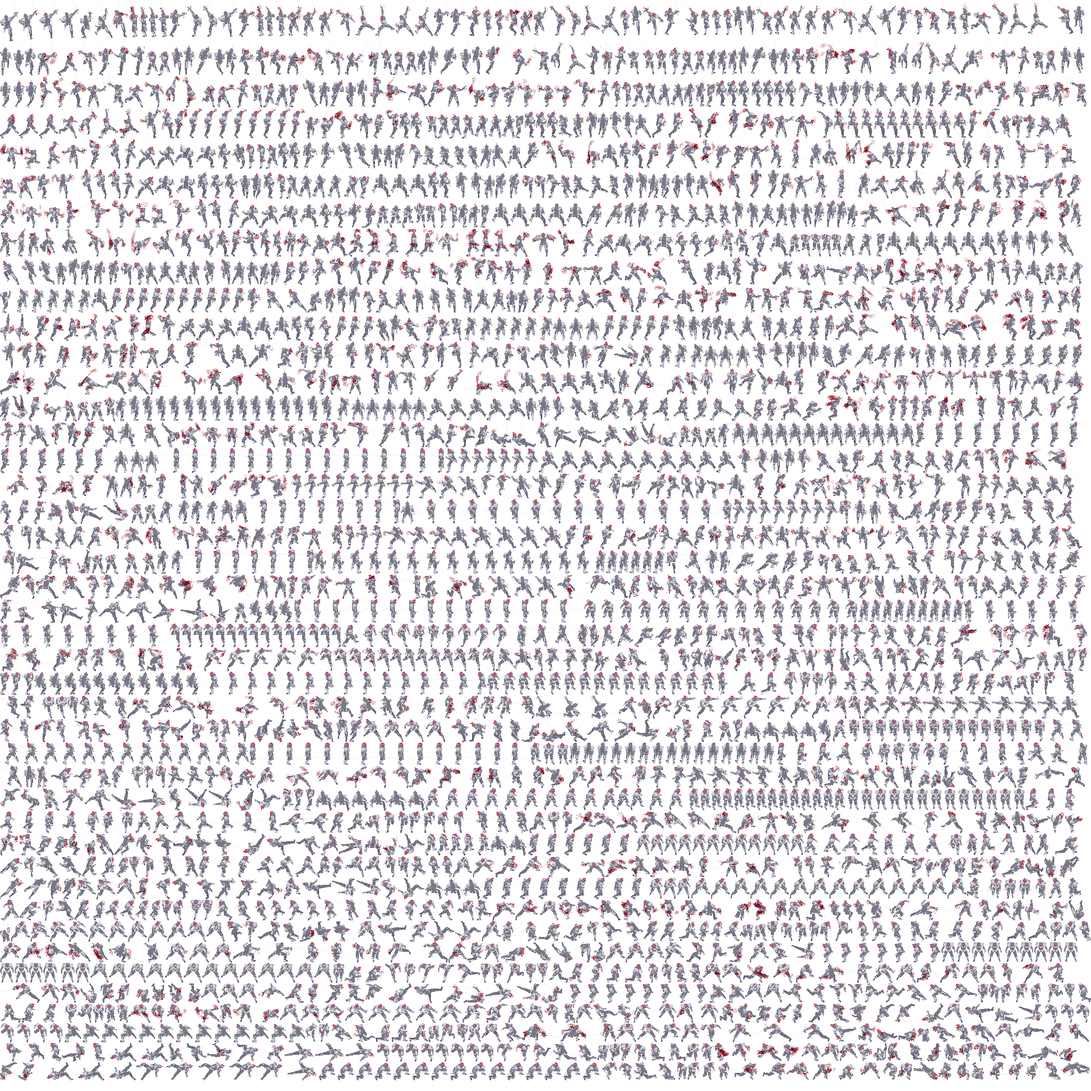
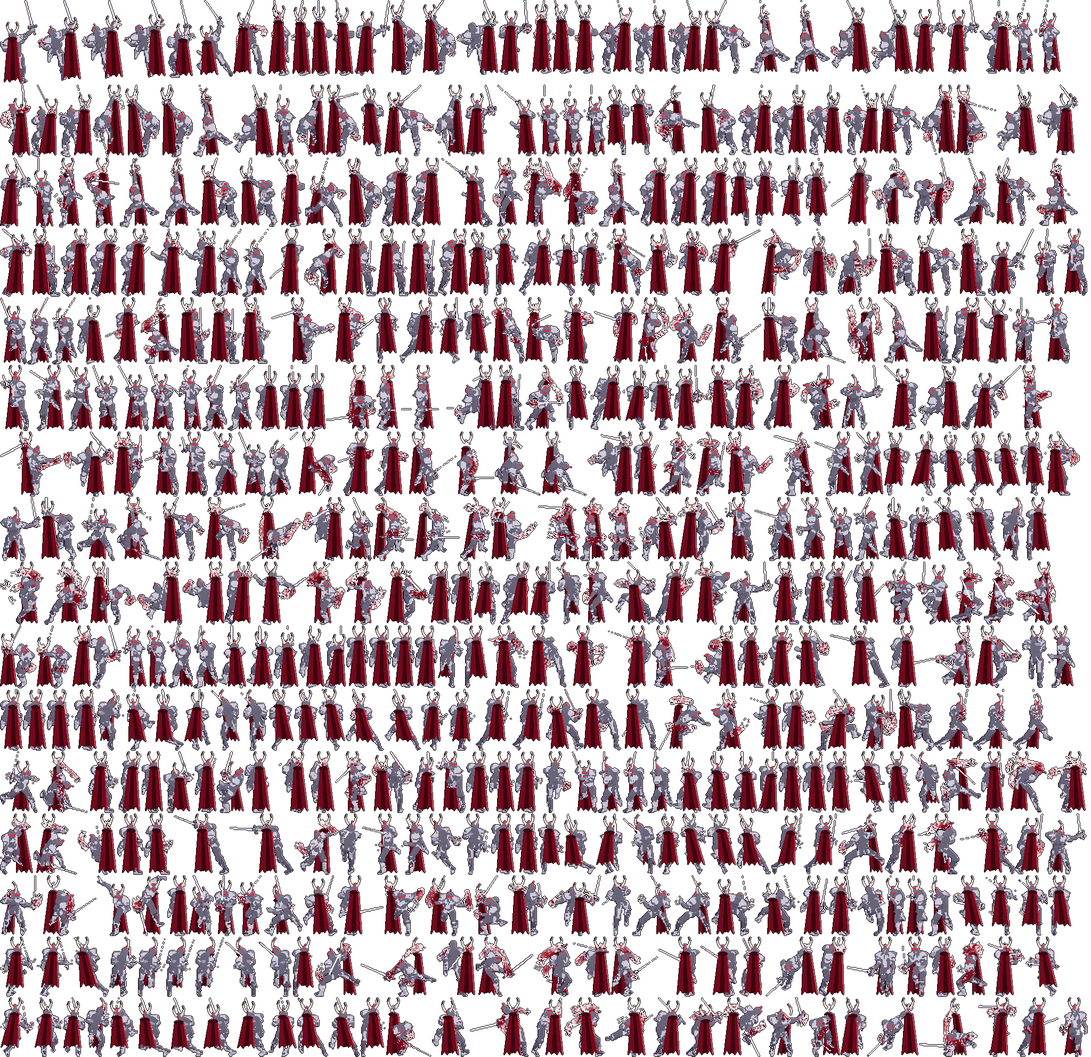
Vesper: the First Cut gets his own boss sheet: 2x, caped, horned
Built from the knight's real animations (every clip and direction): recoloured,
redrawn at double resolution with Scale2x, with a swaying tattered crimson cape,
horns from his crown, an outline, moonlit rim and crimson seams. The engine draws
res-2 sheets at half scale. He fights at 1.8x a man's size.

Claude-Session: https://claude.ai/code/session_01U68ANvC5EPq8neAmbwhWjn

diff --git a/vesper/js/assets.js b/vesper/js/assets.js
@@ -97,7 +97,7 @@
   // Draw an actor with its feet at (x, y). opts: flash (0..1 white), shade (solid colour), grey, alpha.
   A.actor = function (ctx, setId, clip, frame, angle, x, y, scale, opts) {
     const r = frameOf(setId, clip, frame, angle); if (!r) return false;
-    const { s, f } = r, k = scale || 1, o = opts || {};
+    const { s, f } = r, k = (scale || 1) / (s.res || 1), o = opts || {};   // res: a sheet drawn at a finer resolution (the First Cut's, 2x)
     const img = s.images[f[0]], key = setId + f[0];
     const dx = Math.round(x + (f[5] - s.anchor[0]) * k), dy = Math.round(y + (f[6] - s.anchor[1]) * k), dw = Math.round(f[3] * k), dh = Math.round(f[4] * k);
     const ga = ctx.globalAlpha; if (o.alpha != null) ctx.globalAlpha = ga * o.alpha;
@@ -109,7 +109,7 @@
   };
   // The frame's box relative to the feet (for framing close-ups).
   A.box = function (setId, clip, frame, angle, scale) {
-    const r = frameOf(setId, clip, frame, angle); if (!r) return null; const { s, f } = r, k = scale || 1;
+    const r = frameOf(setId, clip, frame, angle); if (!r) return null; const { s, f } = r, k = (scale || 1) / (s.res || 1);
     return { x: (f[5] - s.anchor[0]) * k, y: (f[6] - s.anchor[1]) * k, w: f[3] * k, h: f[4] * k };
   };
 

diff --git a/vesper/js/data.js b/vesper/js/data.js
@@ -458,7 +458,7 @@
   // The last fight's First Cut (2026-11-11, the author: "the final boss character looks wrong and horrible"): no longer a
   // giant outside the summit but the knight himself on it, larger than a man, fought blade to blade; his blades from the
   // sky, the rift gates, the echoes and the Last Cut still come (js/sim.js, 'the god', which now follows his health).
-  D.FOES.firstCutFinal = Object.assign({}, D.FOES.firstCut, { scale: 1.6, hp: 2400, poise: 90, spd: 78, final: true, hitMul: 0.62 });
+  D.FOES.firstCutFinal = Object.assign({}, D.FOES.firstCut, { scale: 1.8, hp: 2400, poise: 90, spd: 78, final: true, hitMul: 0.62 });
 
   // ---- Looks: each army foe spawns in one of these looks (the whole random cast has a place) ----
   const V = (pre, nums) => nums.map((n) => `vh_${pre}_${String(n).padStart(3, '0')}`);

diff --git a/vesper/tools_firstcut.py b/vesper/tools_firstcut.py
@@ -1,34 +1,142 @@
-# THE BLEEDING MOON - the First Cut's own look (2026-11-11, the author: "the final boss character looks wrong and
-# horrible"): the knight he was drawn from, recoloured so he is nobody else: silver-white plate, crimson trim, deep
-# violet-black in the shadows. Reads assets/pixel/master_knight.* (untouched) and writes assets/pixel/vh_firstcut.*.
+# THE BLEEDING MOON - the First Cut's own boss sheet (2026-11-11, the author: "make a proper boss sprite").
+# Built from the real animations of the knight he was drawn from (every clip, every direction), not drawn shapes:
+#   1. recoloured: silver-white plate, crimson trim, deep violet-black in the shadows;
+#   2. redrawn at twice the resolution with Scale2x (EPX), so his edges stay sharp and smooth instead of turning to blocks;
+#   3. given a boss's finish at that resolution: a crisp dark outline, a rim of moonlight on his upper-right edges, and the
+#      seams of his armour burning crimson (the wound in the moon, in him).
+# Reads assets/pixel/master_knight.* (untouched); writes assets/pixel/vh_firstcut.json and vh_firstcut_<n>.png with
+# "res": 2 (js/assets.js draws a res-2 sheet at half the scale, so he keeps his size and gains the detail).
 # Usage: python3 vesper/tools_firstcut.py
-import json, os
+import json, os, hashlib
 import numpy as np
-from PIL import Image
+from PIL import Image, ImageDraw
+import math
 
 ROOT = os.path.abspath(os.path.join(os.path.dirname(__file__), '..')); PX = ROOT + '/assets/pixel'
-SRC, DST = 'master_knight', 'vh_firstcut'
-# Grey armour by its brightness -> ivory; warm trim (tan, gold) by its brightness -> crimson.
-IVORY = [(0, (16, 10, 20)), (62, (34, 26, 40)), (76, (88, 82, 100)), (86, (138, 136, 152)), (98, (186, 186, 200)), (110, (220, 220, 230)), (134, (246, 244, 250)), (256, (255, 255, 255))]
+SRC, DST, RES, PAGE = 'master_knight', 'vh_firstcut', 2, 2048
+IVORY = [(0, (14, 8, 18)), (66, (30, 22, 38)), (76, (64, 58, 80)), (84, (112, 108, 128)), (94, (164, 162, 180)), (106, (208, 206, 220)), (132, (240, 238, 248)), (256, (255, 255, 255))]
 CRIMSON = [(0, (30, 4, 10)), (90, (96, 8, 22)), (140, (168, 18, 40)), (200, (226, 40, 62)), (256, (255, 120, 130))]
+OUTLINE, MOON, SEAM, SEAM_HOT = (14, 6, 12), (255, 228, 236), (214, 26, 52), (255, 96, 110)
 
 def ramp(stops, v):
     xs = np.array([s[0] for s in stops], float); out = np.zeros(v.shape + (3,))
     for c in range(3): out[..., c] = np.interp(v, xs, [s[1][c] for s in stops])
     return out
 
-def recolour(im):
-    a = np.asarray(im.convert('RGBA')).astype(float); rgb = a[..., :3]
-    mx, mn = rgb.max(-1), rgb.min(-1); sat = (mx - mn) / np.maximum(mx, 1); lum = rgb @ [0.299, 0.587, 0.114]
+def recolour(a):
+    rgb = a[..., :3].astype(float); mx, mn = rgb.max(-1), rgb.min(-1); sat = (mx - mn) / np.maximum(mx, 1); lum = rgb @ [0.299, 0.587, 0.114]
     warm = (sat > 0.12) & (rgb[..., 0] >= rgb[..., 2])
-    out = np.where(warm[..., None], ramp(CRIMSON, lum), ramp(IVORY, lum))
-    res = a.copy(); res[..., :3] = np.where((a[..., 3] > 0)[..., None], out, rgb)
-    return Image.fromarray(res.clip(0, 255).astype(np.uint8), 'RGBA')
+    out = a.copy(); out[..., :3] = np.where(warm[..., None], ramp(CRIMSON, lum), ramp(IVORY, lum)).clip(0, 255).astype(np.uint8)
+    return out
 
-d = json.load(open(f'{PX}/{SRC}.json'))
-pages = []
-for i, p in enumerate(d['pages']):
-    name = f'{DST}_{i}.png'; recolour(Image.open(f'{PX}/{p}')).save(f'{PX}/{name}', optimize=True); pages.append(name)
-d['id'] = DST; d['pages'] = pages
-json.dump(d, open(f'{PX}/{DST}.json', 'w'), separators=(',', ':'))
-print('wrote', DST, pages)
+def scale2x(a):
+    """EPX: every pixel becomes four, rounding diagonals off along matching neighbours."""
+    h, w = a.shape[:2]; p = a.view(np.uint32).reshape(h, w)
+    pad = np.pad(p, 1, mode='edge'); P = pad[1:-1, 1:-1]; A = pad[:-2, 1:-1]; B = pad[1:-1, 2:]; C = pad[1:-1, :-2]; D = pad[2:, 1:-1]
+    o1 = np.where((C == A) & (C != D) & (A != B), A, P); o2 = np.where((A == B) & (A != C) & (B != D), B, P)
+    o3 = np.where((D == C) & (D != B) & (C != A), C, P); o4 = np.where((B == D) & (B != A) & (D != C), D, P)
+    out = np.zeros((h * 2, w * 2), np.uint32); out[0::2, 0::2] = o1; out[0::2, 1::2] = o2; out[1::2, 0::2] = o3; out[1::2, 1::2] = o4
+    return out.view(np.uint8).reshape(h * 2, w * 2, 4)
+
+def finish(a):
+    """The boss's finish at 2x: crimson seams in the armour, moonlight on the upper-right edges, a dark outline."""
+    m = a[..., 3] > 0; rgb = a[..., :3].astype(float); lum = rgb @ [0.299, 0.587, 0.114]
+    n = lambda arr, dy, dx: np.roll(np.roll(arr, dy, 0), dx, 1)
+    inner = m & n(m, 1, 0) & n(m, -1, 0) & n(m, 0, 1) & n(m, 0, -1)
+    # Seams: thin dark lines inside the plate (darker than the pixels either side of them, across or down).
+    L = lambda dy, dx: n(lum, dy, dx)
+    line = ((L(0, 1) - lum > 34) & (L(0, -1) - lum > 34)) | ((L(1, 0) - lum > 34) & (L(-1, 0) - lum > 34))
+    seam = inner & line & (lum < 120)
+    out = a.copy()
+    hot = seam & ((np.indices(lum.shape).sum(0) % 5) == 0)
+    out[seam, :3] = SEAM; out[hot, :3] = SEAM_HOT
+    # Moonlight: plate pixels whose upper-right neighbour is empty.
+    rim = m & ~n(m, 1, -1) & ~seam
+    out[rim, :3] = (out[rim, :3] * 0.45 + np.array(MOON) * 0.55).astype(np.uint8)
+    # The outline: empty pixels touching him.
+    edge = ~m & (n(m, 1, 0) | n(m, -1, 0) | n(m, 0, 1) | n(m, 0, -1))
+    out[edge] = OUTLINE + (255,)
+    return out
+
+# ---- his cape and his horns, drawn at 2x onto every frame -------------------------------------------------------------
+CAPE, CAPE_DK, CAPE_HI, HORN, HORN_DK = (112, 10, 28), (62, 4, 16), (178, 28, 48), (228, 222, 210), (70, 48, 58)
+NO_CAPE = {'Die', 'Rolling', 'Slide'}
+def head_of(a):
+    """Where his crown is (its gold reads in every frame and direction): the topmost warm pixels."""
+    rgb = a[..., :3].astype(int); mx, mn = rgb.max(-1), rgb.min(-1); warm = ((mx - mn) / np.maximum(mx, 1) > 0.12) & (rgb[..., 0] >= rgb[..., 2]) & (a[..., 3] > 0)
+    ys, xs = np.nonzero(warm)
+    if not len(ys): ys, xs = np.nonzero(a[..., 3] > 0); y0 = ys.min(); sel = ys <= y0 + 4; return xs[sel].mean(), y0 + 4.0
+    y0 = ys.min(); sel = ys <= y0 + 5; return xs[sel].mean(), ys[sel].mean()
+def cape(im, d, hx, hy, feet, i, clip, front):
+    """A tattered crimson cape from his shoulders: behind him, or over his back when he faces away."""
+    g = ImageDraw.Draw(im); sy = hy + 13; L = max(18, feet - sy - 4)
+    side = {'E': -1, 'W': 1, 'SE': -0.5, 'SW': 0.5, 'NE': -0.5, 'NW': 0.5, 'S': 0, 'N': 0}[d]
+    moving = clip in ('Run', 'Walk', 'StrafeLeft', 'StrafeRight', 'RunBackwards'); sway = math.sin(i * 0.75) * (3 if not moving else 5)
+    profile = d in ('E', 'W')
+    tw, bw = (9, 20) if profile else (15, 30) if front else (13, 28)
+    back = side * (16 if moving else 9) + sway; L = L * (0.82 if moving else 1)
+    tl, tr = (hx - tw / 2 + side * 3, sy), (hx + tw / 2 + side * 3, sy)
+    bl, br = (hx - bw / 2 + back, sy + L), (hx + bw / 2 + back, sy + L)
+    hem = [br]; n = 6
+    for k in range(1, n):   # the torn hem
+        t = k / n; hem.append((br[0] + (bl[0] - br[0]) * t, br[1] - (7 if k % 2 else 1) - 2 * math.sin(i * 0.9 + k)))
+    hem.append(bl); pts = [tl, tr] + hem
+    g.polygon(pts, fill=CAPE + (255,))
+    mid = (tl[0] + tr[0]) / 2, (bl[0] + br[0]) / 2   # a fold down its middle and a lit edge
+    g.polygon([(mid[0] - 2, sy + 3), (mid[0] + 2, sy + 3), (mid[1] + 5, sy + L - 5), (mid[1] - 3, sy + L - 3)], fill=CAPE_DK + (255,))
+    g.line([tr, br], fill=CAPE_HI + (255,), width=2)
+    g.ellipse([hx - tw / 2 - 1, sy - 3, hx + tw / 2 + 1, sy + 4], fill=CAPE_DK + (255,))   # the collar
+def horns(im, d, hx, hy):
+    """Two horns swept back from the crown (one, side on)."""
+    g = ImageDraw.Draw(im)
+    for sgn in ((-1, 1) if d not in ('E', 'W') else ((1,) if d == 'E' else (-1,))):
+        back = {'E': -1, 'W': 1}.get(d, 0)
+        pts = [(hx + sgn * 4, hy + 2), (hx + sgn * 8 + back * 3, hy - 4), (hx + sgn * 10 + back * 6, hy - 11), (hx + sgn * 8 + back * 9, hy - 17)]
+        g.line(pts, fill=HORN + (255,), width=3); g.line(pts[2:], fill=HORN_DK + (255,), width=2)
+
+def build():
+    d = json.load(open(f'{PX}/{SRC}.json')); pages = [np.asarray(Image.open(f'{PX}/{p}').convert('RGBA')) for p in d['pages']]
+    cache, items = {}, []   # unique frames: key -> (image, ox, oy)
+    PAD = 14   # room (at 1x) for the cape, the horns and the outline
+    def process(f, clip, dname, i):
+        pg = pages[f[0]]; x, y, w, h, ox, oy = f[1:7]
+        a = np.zeros((h + 2 * PAD, w + 2 * PAD, 4), np.uint8); a[PAD:PAD + h, PAD:PAD + w] = pg[y:y + h, x:x + w]
+        hx, hy = head_of(a); hx, hy = hx * RES, hy * RES; feet = (PAD + h) * RES
+        body = Image.fromarray(scale2x(recolour(a))); front = dname in ('N', 'NE', 'NW')
+        canvas = Image.new('RGBA', body.size, (0, 0, 0, 0))
+        if clip not in NO_CAPE and not front: cape(canvas, dname, hx, hy, feet, i, clip, False)
+        canvas.alpha_composite(body)
+        if clip not in NO_CAPE and front: cape(canvas, dname, hx, hy, feet, i, clip, True)
+        if clip != 'Die': horns(canvas, dname, hx, hy)
+        img = finish(np.asarray(canvas).copy())
+        ys, xs = np.nonzero(img[..., 3] > 0); y0, y1, x0, x1 = ys.min(), ys.max() + 1, xs.min(), xs.max() + 1
+        img = np.ascontiguousarray(img[y0:y1, x0:x1])
+        nox, noy = int((ox - PAD) * RES + x0), int((oy - PAD) * RES + y0)
+        key = hashlib.md5(img.tobytes() + str((nox, noy)).encode()).hexdigest()
+        if key not in cache: cache[key] = len(items); items.append((img, nox, noy))
+        return cache[key]
+    anims = {}
+    for clip, dirs in d['anims'].items():
+        anims[clip] = {k: [None if f is None else process(f, clip, k, i) for i, f in enumerate(fr)] for k, fr in dirs.items()}
+    # Shelf-pack the unique frames, tallest first, into PAGE x PAGE sheets.
+    order = sorted(range(len(items)), key=lambda i: -items[i][0].shape[0]); place = {}; sheets = []
+    cx = cy = row = 0; sheet = None
+    for i in order:
+        img = items[i][0]; h, w = img.shape[:2]
+        if sheet is None or cx + w > PAGE: cx = 0; cy += row; row = 0
+        if sheet is None or cy + h > PAGE: sheet = np.zeros((PAGE, PAGE, 4), np.uint8); sheets.append(sheet); cx = cy = row = 0
+        sheet[cy:cy + h, cx:cx + w] = img; place[i] = (len(sheets) - 1, cx, cy, w, h); cx += w + 1; row = max(row, h + 1)
+    names = []
+    for k, sh in enumerate(sheets):
+        used = np.nonzero(sh[..., 3].any(1))[0]; hh = int(used.max()) + 1 if len(used) else 1
+        name = f'{DST}_{k}.png'; Image.fromarray(sh[:hh]).save(f'{PX}/{name}', optimize=True); names.append(name)
+    for clip in anims:
+        for k in anims[clip]:
+            anims[clip][k] = [None if i is None else [int(v) for v in (place[i][0], place[i][1], place[i][2], place[i][3], place[i][4], items[i][1], items[i][2])] for i in anims[clip][k]]
+    out = {'id': DST, 'cell': str(int(d['cell']) * RES), 'anchor': [d['anchor'][0] * RES, d['anchor'][1] * RES], 'res': RES, 'pages': names, 'anims': anims}
+    for f in os.listdir(PX):   # old pages of this sheet beyond the new count
+        if f.startswith(DST + '_') and f.endswith('.png') and f not in names: os.remove(f'{PX}/{f}')
+    json.dump(out, open(f'{PX}/{DST}.json', 'w'), separators=(',', ':'))
+    print('wrote', DST, len(items), 'unique frames on', len(names), 'pages', names)
+
+build()

diff --git a/vesper/README.md b/vesper/README.md
@@ -325,9 +325,16 @@ the last acts 50 to 90%, the post-game harder; about 80% overall for every hero.
 (2026-11-11, the author: "the final boss character looks wrong and horrible, cutscene and match".) He was a small grey knight
 (the same look as the Gatewarden) blown up into black blocks in the films and, in the fight, a figure peeking over the
 summit's far rim while you cut floating limbs. Now:
-- **His own look**: `vh_firstcut`, the knight recoloured to silver-white plate with a red crown and crimson trim
-  (`tools_firstcut.py`; reads `master_knight`, untouched). Used everywhere he appears: both his fights, the echo, the soul,
-  the playable First Cut, the opening, the films.
+- **His own boss sheet** (the author: "make a proper boss sprite"): `vh_firstcut`, built by `tools_firstcut.py` from the
+  real animations of the knight he was drawn from (`master_knight`, untouched: all 23 clips, 8 directions, 2760 frames).
+  Each frame is recoloured (silver-white plate, crimson trim, violet-black shadows), redrawn at twice the resolution with
+  Scale2x so the edges stay smooth instead of blocky, and given a boss's costume and finish at that resolution: a tattered
+  crimson cape from his shoulders that sways frame to frame (behind him, or over his back when he faces away; shorter and
+  flaring when he runs; none when he rolls or dies), two horns swept back from his crown (placed by the crown's gold,
+  which reads in every frame), a dark outline, moonlight on his upper-right edges and crimson in his armour's seams.
+  The sheet says `"res": 2` and js/assets.js draws it at half the scale, so he keeps his size and gains the detail.
+  Five 2048 pages, about 6 MB. He fights at 1.8 times a man's size. Used everywhere he appears: both his fights, the
+  echo, the soul, the playable First Cut, the opening, the films.
 - **The last fight** (a5-b) is a duel: `D.FOES.firstCutFinal`, the knight himself on the summit at 1.6 times a man's size,
   with his combo, lunges, crescent waves, moonfall and mirror. The god above (js/sim.js, 'the god') is now only the will
   behind him: its health follows his body's; he raises his blade to call the sky blades, crosses, sweeps and quakes (more
